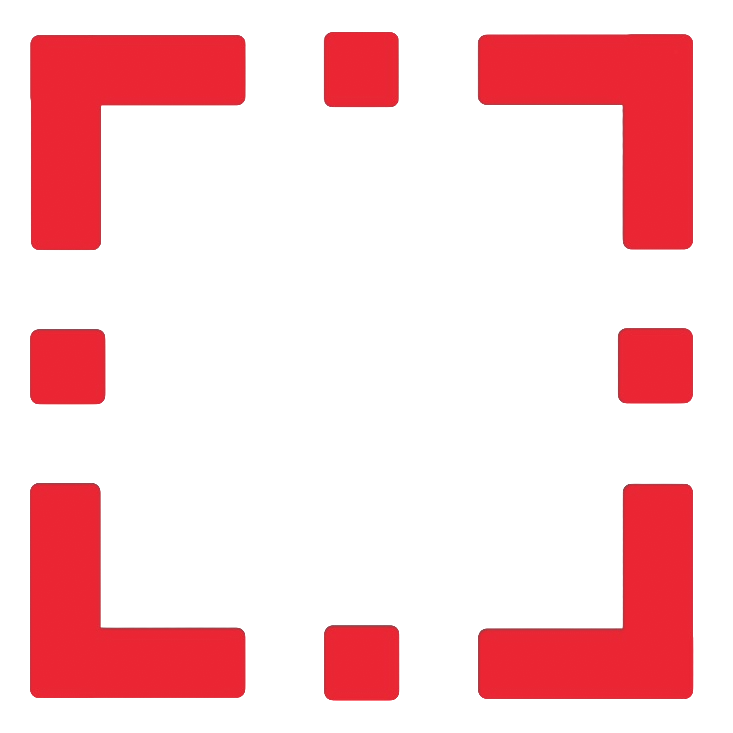
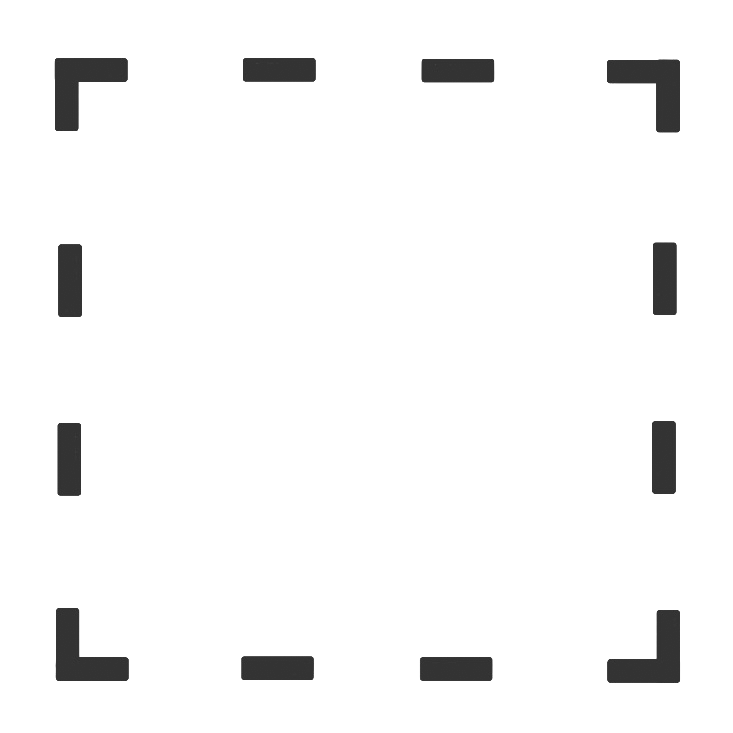
añadido cursor

Changed region(s): [[0.03, 0.03, 0.9604, 0.9604]]

diff --git a/src/Tablero.cpp b/src/Tablero.cpp
@@ -11,7 +11,6 @@ void Tablero::inicializa()
 
 
     turnoActual = Bando::LUZ;
-    cursor = { 4, 0 };
 
     combatePendiente = false;
     hayOrigenSeleccionado = false;
@@ -98,7 +97,8 @@ void Tablero::dibuja(const Renderer& renderer)const {
         }
     }
 
-	listaPiezas.dibujarPiezas(renderer, esquinaSuperiorIzda, longitudCasilla);
+    cursor.dibuja(renderer, esquinaSuperiorIzda, longitudCasilla);
+	//listaPiezas.dibujarPiezas(renderer, esquinaSuperiorIzda, longitudCasilla);
 
 }
 
@@ -207,26 +207,21 @@ bool Tablero::caminoLibreEnL(PosicionMatriz origen, PosicionMatriz destino, bool
 
 
 
-// ----------------- FUNCIONES DEL CURSOR ----------------- START
+// ----------------- FUNCIONES DE CURSOR ----------------- START
 
 // MOSTRAR STATS DE LA PIEZA EN LA QUE TENGO EL CURSOR!!!!!!!!!
-
-//comprueba si se puede mover y luego asigna la nueva posicion al cursor, se llama desde juego cuando se pulsa una flecha
 void Tablero::moverCursor(int df, int dc)
 {
-	PosicionMatriz nuevaPosicion{ cursor.fila + df, cursor.columna + dc };
-
-    if (interaccion.posicionValida(nuevaPosicion)) cursor = nuevaPosicion;
+        cursor.mover(df, dc);
 }
-
 
 bool Tablero::seleccionarConCursor()
 {
 
     if (!hayOrigenSeleccionado) {
-		if (interaccion.getBandoOcupante(cursor, listaPiezas) != turnoActual) return false; //solo puedo seleccionar una pieza de mi turno
+		if (Interaccion::getBandoOcupante(cursor.getPosicion(), listaPiezas) != turnoActual) return false; //solo puedo seleccionar una pieza de mi turno
 
-        origenSeleccionado = cursor;
+        origenSeleccionado = cursor.getPosicion();
         hayOrigenSeleccionado = true;
 
 		resaltarMovimientoPosible();//actualizamos los movimientos posibles para el origen seleccionado, para luego mostrarlos en la parte gráfica
@@ -234,7 +229,7 @@ bool Tablero::seleccionarConCursor()
         return true;
     }
 
-    bool movimientoCorrecto = mover(origenSeleccionado, cursor);
+    bool movimientoCorrecto = mover(origenSeleccionado, cursor.getPosicion());
 
     hayOrigenSeleccionado = false;
 	origenSeleccionado = { -1, -1 };//reiniciamos el origen seleccionado para evitar errores
@@ -277,11 +272,11 @@ void Tablero::cambiarTurno()
 {
     if (turnoActual == Bando::LUZ) {
         turnoActual = Bando::OSCURIDAD;
-        cursor = { 4 , 8 }; //cursor en el lado de oscuridad
+        cursor.setPosicion({ 4 , 8 }); //cursor en el lado de oscuridad
     }
     else {
         turnoActual = Bando::LUZ;
-        cursor = { 4 , 0 }; //cursor en el lado de luz
+        cursor.setPosicion({ 4 , 0 }) ; //cursor en el lado de luz
     }
 }
 
@@ -307,8 +302,6 @@ Bando Tablero::getTurnoActual() const {return turnoActual;}
 
 //funcion para saber si hay que cambiar a arena, obtenemos el flag de combate pendiente, para usarla en JUEGO.CPP 
 bool Tablero::hayCombatePendiente() const {return combatePendiente;}
-
-PosicionMatriz Tablero::getCursor() const {return cursor;}
 
 PosicionMatriz Tablero::getOrigenSeleccionado() const { return origenSeleccionado; }
 bool Tablero::getHayOrigenSeleccionado() const {return hayOrigenSeleccionado;}

diff --git a/includes/Tablero.h b/includes/Tablero.h
@@ -7,6 +7,7 @@
 #include "Interaccion.h"
 #include "Renderer.h"
 #include "Config.h"
+#include "Cursor.h"
 
 #include "Arquero.h"
 #include "Banshee.h"
@@ -28,17 +29,18 @@
 class Tablero {
 private:
     friend class Interaccion;
+    friend class Cursor;
+
     double longitud;
     Vector2D posicion{ Config::sizeMundo * 0.5 };//en el centro
     static constexpr int TAM = 9;
     Casilla casillas[TAM][TAM];
 
     ListaPiezas listaPiezas;
-    Interaccion interaccion;
     Bando turnoActual;
 
-    // el cursor es una posicion, la cual usaremos para iluminarla en el teclado con la parte gráfica, así como el origen seleccionado
-    PosicionMatriz cursor;
+    Cursor cursor;
+
     PosicionMatriz origenSeleccionado;
     bool hayOrigenSeleccionado = false;
     std::vector<PosicionMatriz> movimientosPosibles;
@@ -81,6 +83,7 @@ public:
     bool caminoLibreEnL(PosicionMatriz origen, PosicionMatriz destino, bool primeroFilas) const;
 
     bool esMovimientoPosible(PosicionMatriz pos) const;
+
 private:
 
     //para después de mover o terminar la arena

diff --git a/includes/Interaccion.h b/includes/Interaccion.h
@@ -2,7 +2,7 @@
 #include "Pieza.h"
 #include "Casilla.h"
 #include "Tipos.h"
-
+#include "ListaPiezas.h"
 
 class Interaccion {
 public:
@@ -27,7 +27,7 @@ public:
   //  }
 
     //para asegurarnos que no nos salimos del tablero
-    bool posicionValida(PosicionMatriz pos) const
+    static bool posicionValida(PosicionMatriz pos)
     {
         int fila = pos.fila;
         int col = pos.columna;
@@ -35,7 +35,7 @@ public:
     }
 
     //para saber de qué bando es la pieza de una casilla, si no hay, devuelve ninguno
-    Bando getBandoOcupante(const PosicionMatriz& pos, const ListaPiezas& listaPiezas) const
+    static Bando getBandoOcupante(const PosicionMatriz& pos, const ListaPiezas& listaPiezas) 
     {
         Pieza* p = listaPiezas.getPiezaEnPosicion(pos);
         if (p != nullptr) {

diff --git a/src/Cursor.cpp b/src/Cursor.cpp
@@ -1,0 +1,20 @@
+#include "Cursor.h"
+
+
+void Cursor::mover(int df, int dc)
+{
+	PosicionMatriz nuevaPosicion{ posicion.fila + df, posicion.columna + dc };
+
+	if (Interaccion::posicionValida(nuevaPosicion)) posicion = nuevaPosicion;
+}
+
+void Cursor::dibuja(const Renderer& renderer, const Vector2D& esquinaSuperiorIzda, double longitudCasilla) const {
+
+	Vector2D centro{
+		esquinaSuperiorIzda.x + (posicion.columna + 0.5) * longitudCasilla,
+		esquinaSuperiorIzda.y + (posicion.fila + 0.5) * longitudCasilla
+	};
+
+
+	renderer.dibujaSprite("bin/Graficos/cursor.PNG", centro, longitudCasilla, longitudCasilla);
+}

diff --git a/includes/Cursor.h b/includes/Cursor.h
@@ -1,0 +1,21 @@
+#pragma once
+#include "Tipos.h"
+#include "Interaccion.h"
+
+class Cursor {
+	PosicionMatriz posicion;
+
+public:
+	Cursor() : posicion{ 0, 0 } {}
+
+	//comprueba si se puede mover y luego asigna la nueva posicion al cursor, se llama desde juego cuando se pulsa una flecha
+	void mover(int df, int dc);
+	void setPosicion(PosicionMatriz nuevaPosicion) { posicion = nuevaPosicion; }
+
+	void dibuja(const Renderer& renderer, const Vector2D& esquinaSuperiorIzda, double longitudCasilla) const;
+
+	PosicionMatriz getPosicion() const { return posicion; }
+
+
+	
+};

diff --git a/includes/ListaPiezas.h b/includes/ListaPiezas.h
@@ -27,6 +27,7 @@ public:
                 return true;
             }
         }
+        return false;
     }
 
     //llamar después de arena
